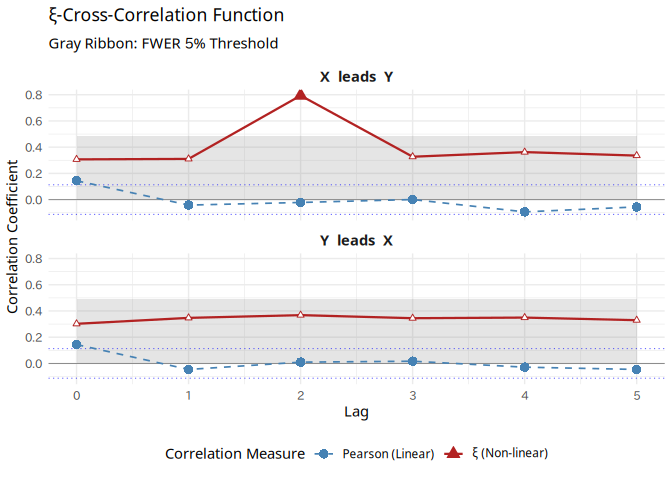
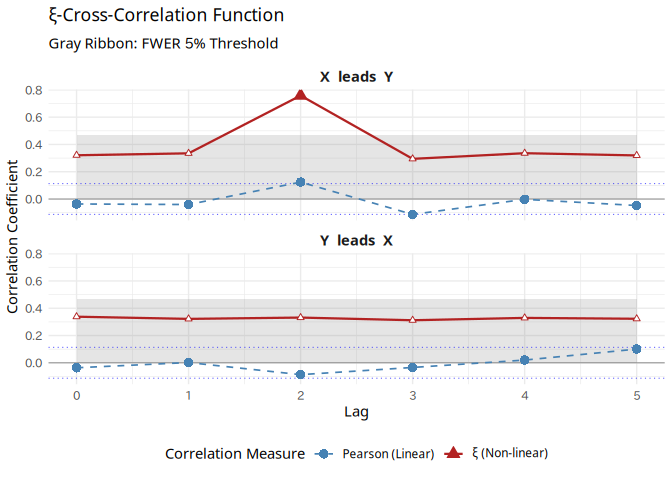
docs: standardize surrogate counts to B+1 rule and expand references
- Updated `n_surr` values in `xi_acf`, `xi_ccf`, and `run_rolling_xi_ccf` examples to align with the B+1 rule (e.g., using 249 or 199 instead of 250 or 200).
- Ensures strict consistency across the documentation in demonstrating the exact empirical quantile calculation for accurate FWER control.
- Expanded the References section to include foundational papers on Chatterjee's Xi and IAAFT surrogate data generation, enhancing academic traceability.

diff --git a/README.md b/README.md
@@ -53,8 +53,6 @@ markets:
   `doFuture`) rolling window functions to capture time-varying
   dependencies smoothly and efficiently.
 
-------------------------------------------------------------------------
-
 ## Installation
 
 You can install the stable version of xiacf from CRAN with:
@@ -85,7 +83,7 @@ library(xiacf)
 library(ggplot2)
 
 set.seed(42)
-n <- 300 # サンプルサイズを少し増やしてシグナルを安定させます
+n <- 300
 
 # Generate a series with V-shaped auto-dependence (mean zero)
 # Standard Pearson ACF will miss this, but Xi-ACF will detect it.
@@ -96,18 +94,18 @@ for (t in 2:n) {
   A[t] <- abs(A[t - 1]) - 0.8 + rnorm(1, sd = 0.2)
 }
 
-res_acf <- xi_acf(A, max_lag = 5, n_surr = 240)
+res_acf <- xi_acf(A, max_lag = 5, n_surr = 249)
 print(res_acf)
 #> 
 #> === Univariate Xi-Autocorrelation Function ===
 #> Time series length: 300
 #> Max Lag: 5
-#> Surrogates (IAAFT): 240
+#> Surrogates (IAAFT): 249
 #> Significance Level: 0.05 (FWER controlled)
 #> ==============================================
 #> Significant Lags:
 #>  Lag        Xi Global_Threshold Xi_Excess
-#>    1 0.6301542        0.5301385 0.1000157
+#>    1 0.6301542        0.5302148 0.0999394
 autoplot(res_acf)
 ```
 
@@ -133,7 +131,7 @@ for (t in 3:n) {
 # Without this, Y is always positive, making abs(Y) purely linear later!
 Y <- as.numeric(scale(Y))
 
-res_ccf <- xi_ccf(X, Y, max_lag = 5, n_surr = 240, direction = "both")
+res_ccf <- xi_ccf(X, Y, max_lag = 5, n_surr = 249, direction = "both")
 print(res_ccf)
 #> 
 #> === Bivariate Xi-Cross-Correlation (CCF) ===
@@ -141,12 +139,12 @@ print(res_ccf)
 #> Time series length: 300
 #> Max Lag: 5
 #> Direction: both
-#> Surrogates (MIAAFT): 240
+#> Surrogates (MIAAFT): 249
 #> Significance Level: 0.05 (FWER controlled)
 #> ============================================
 #> Top 5 Strongest Causal Pathways:
-#>  Lead_Var Lag_Var Lag        Xi        CCF Global_Threshold Xi_Excess
-#>         X       Y   2 0.7937993 -0.0216747        0.4887269 0.3050724
+#>  Lead_Var Lag_Var Lag        Xi      CCF Global_Threshold Xi_Excess
+#>         X       Y   2 0.7584119 0.123921        0.4662698 0.2921421
 autoplot(res_ccf)
 ```
 
@@ -171,11 +169,7 @@ Z <- as.numeric(scale(Z))
 df_system <- data.frame(X = X, Y = Y, Z = Z)
 
 # Compute the multivariate Xi-correlogram matrix
-res_matrix <- xi_matrix(df_system, max_lag = 3, n_surr = 360)
-#> Warning in check_surrogate_count(n_surr, sig_level, num_tests): Warning: For 24
-#> simultaneous tests at sig_level = 0.05, the empirical distribution of the
-#> max-statistic may be unstable with n_surr = 360. Recommended n_surr is at least
-#> 480.
+res_matrix <- xi_matrix(df_system, max_lag = 3, n_surr = 499)
 
 autoplot(res_matrix)
 ```
@@ -208,23 +202,35 @@ rolling_res <- run_rolling_xi_ccf(
   window_size = 50,
   step_size = 10,
   max_lag = 3,
-  n_surr = 200
+  n_surr = 199
 )
 
 head(rolling_res)
 #>   Window_ID Lead_Var Lag_Var Lag        Xi Global_Threshold Xi_Excess
-#> 1         1        x       y   0 0.3240816        0.5813469 0.0000000
-#> 2         1        x       y   1 0.3494898        0.5813469 0.0000000
-#> 3         1        x       y   2 0.8324468        0.5813469 0.2510999
-#> 4         1        x       y   3 0.3098982        0.5813469 0.0000000
-#> 5         1        y       x   0 0.2930612        0.5813469 0.0000000
-#> 6         1        y       x   1 0.2789116        0.5813469 0.0000000
+#> 1         1        x       y   0 0.2955102        0.4966531 0.0000000
+#> 2         1        x       y   1 0.2882653        0.4966531 0.0000000
+#> 3         1        x       y   2 0.6923759        0.4966531 0.1957228
+#> 4         1        x       y   3 0.2738205        0.4966531 0.0000000
+#> 5         1        y       x   0 0.2669388        0.4966531 0.0000000
+#> 6         1        y       x   1 0.3205782        0.4966531 0.0000000
 ```
 
 ## References
 
-- Chatterjee, S. (2021). A new coefficient of correlation. *Journal of
-  the American Statistical Association*, 116(536), 2009-2022.
+The theoretical foundation and surrogate data methodologies implemented
+in this package are based on the following works:
+
+- **Chatterjee’s $\xi$:** Chatterjee, S. (2021). A new coefficient of
+  correlation. *Journal of the American Statistical Association*,
+  116(536), 2009-2022. <https://doi.org/10.1080/01621459.2020.1758115>
+- **IAAFT / Surrogate Data:** Schreiber, T., & Schmitz, A. (1996).
+  Improved surrogate data for nonlinearity tests. *Physical Review
+  Letters*, 77(4), 635. <https://doi.org/10.1103/PhysRevLett.77.635>
+- **Local Structural Identification (Package Methodology):**
+  Watanabe, Y. (2026). Differential diagnosis of nonlinearity:
+  Integrating the BDS omnibus test with chatterjee’s xi for local
+  structural identification. *SSRN Preprint*.
+  <https://doi.org/10.2139/ssrn.6829431>
 
 ## License
 
